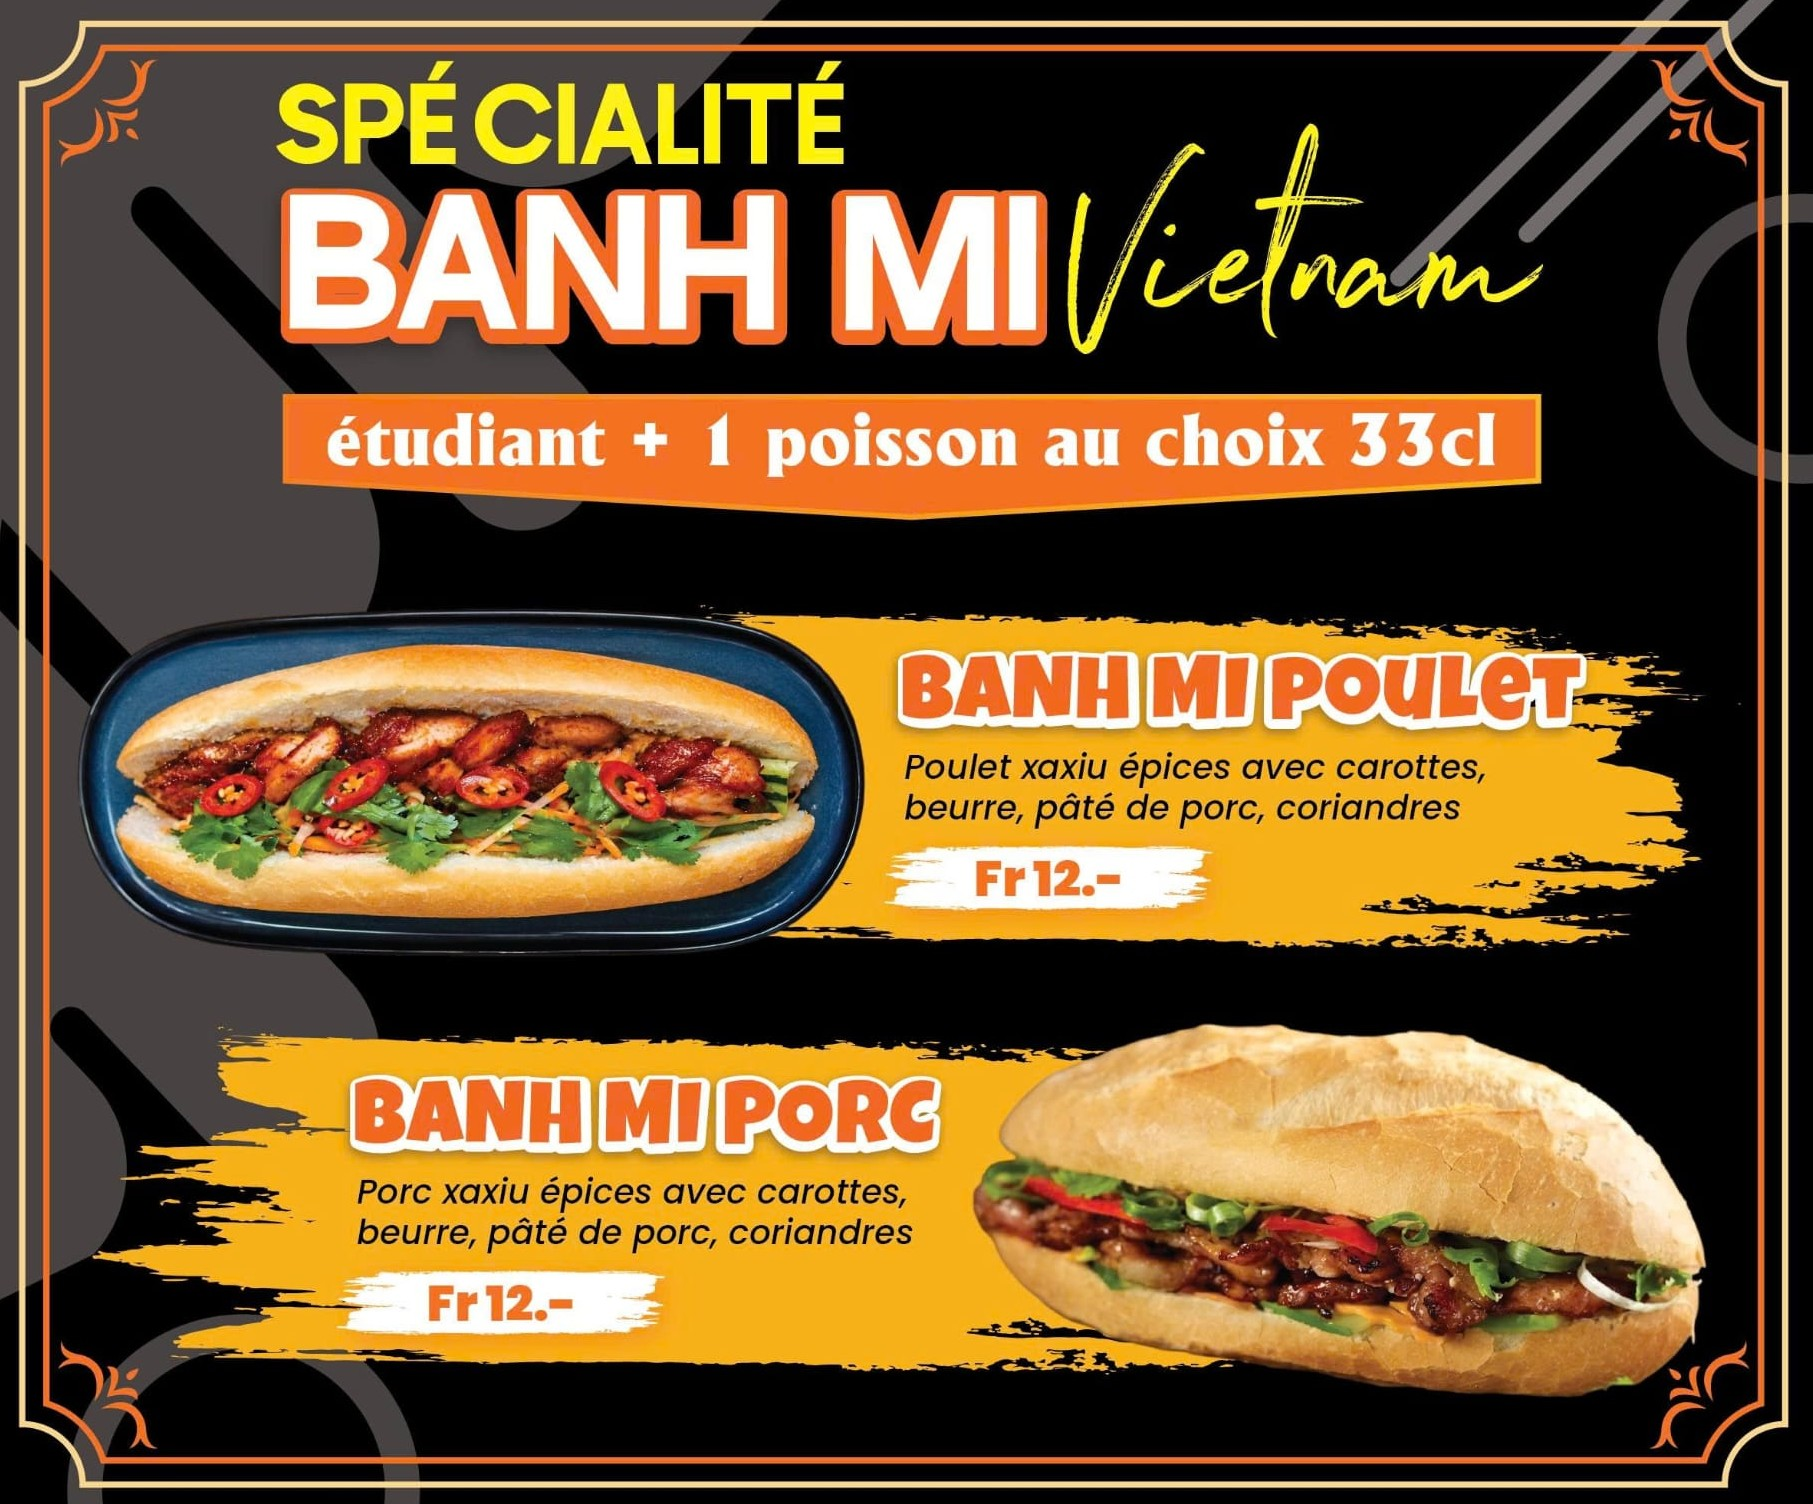
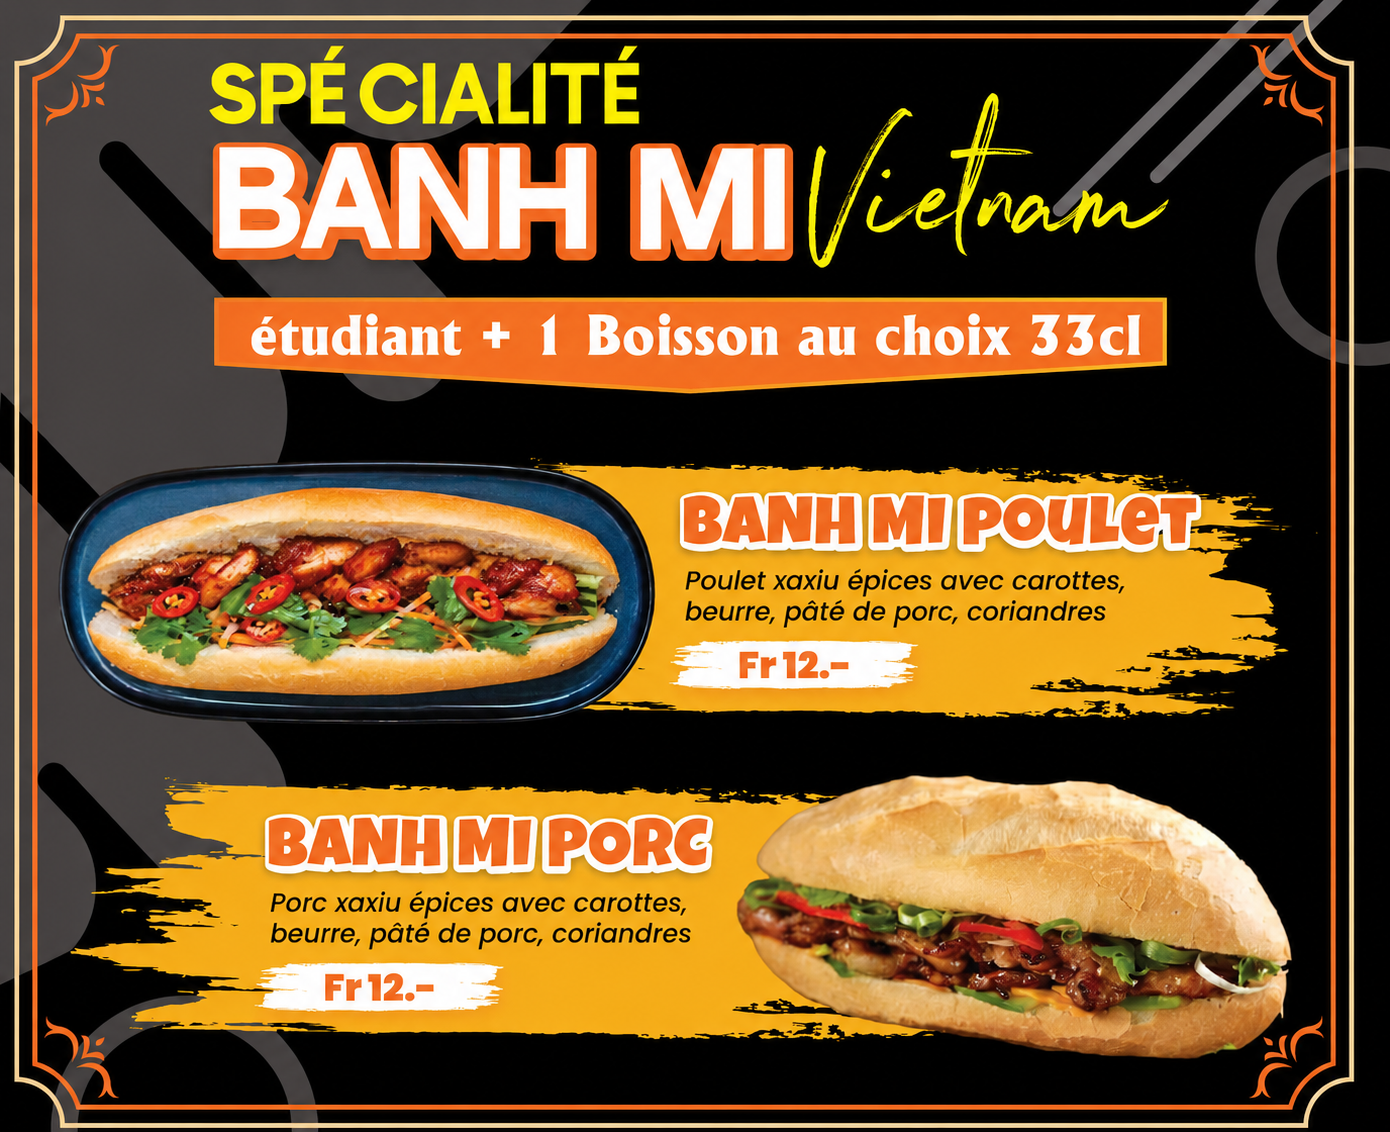
update

diff --git a/src/components/layout/Footer.tsx b/src/components/layout/Footer.tsx
@@ -7,7 +7,7 @@ function LotusLogoFooter() {
     <img
       src="/images/logo-banner.jpeg"
       alt="Le Lotus"
-      className="h-14 w-auto max-w-[220px]"
+      className="h-24 w-auto max-w-[320px]"
       style={{ objectFit: "contain" }}
     />
   );
@@ -34,24 +34,26 @@ export default function Footer() {
       <div className="max-w-7xl mx-auto px-4 md:px-8 lg:px-16 py-20">
         <div className="grid grid-cols-1 md:grid-cols-2 lg:grid-cols-4 gap-12 lg:gap-8">
           {/* Brand */}
-          <div className="lg:col-span-1">
-            <div className="mb-5">
+          <div className="lg:col-span-1 flex flex-col items-start">
+            <div className="mb-6">
               <LotusLogoFooter />
             </div>
             {/* Social */}
-            <div className="flex gap-3">
-              <a
-                href="https://www.facebook.com/share/1E2WbZfnWz/"
-                target="_blank"
-                rel="noopener noreferrer"
-                className="w-9 h-9 flex items-center justify-center border border-white/10
-                           text-white/50 hover:text-white hover:border-copper hover:text-copper
-                           transition-all duration-300"
-                aria-label="Facebook Le Lotus"
-              >
-                <Facebook size={15} />
-              </a>
-            </div>
+            <p className="text-xs tracking-[0.25em] uppercase text-copper mb-3 font-medium">
+              Suivez-nous
+            </p>
+            <a
+              href="https://www.facebook.com/share/1E2WbZfnWz/"
+              target="_blank"
+              rel="noopener noreferrer"
+              className="inline-flex items-center gap-3 px-4 py-2.5 border border-white/10
+                         text-white/60 hover:text-copper hover:border-copper
+                         transition-all duration-300"
+              aria-label="Facebook Le Lotus"
+            >
+              <Facebook size={16} />
+              <span className="text-sm tracking-wide">Facebook</span>
+            </a>
           </div>
 
           {/* Horaires */}

diff --git a/src/components/sections/Evenement.tsx b/src/components/sections/Evenement.tsx
@@ -155,16 +155,21 @@ export default function Evenement() {
             </a>
           </div>
 
-          {/* Decorative text */}
-          <motion.p
+          {/* Decorative logo */}
+          <motion.div
             initial={{ opacity: 0 }}
             animate={isInView ? { opacity: 1 } : {}}
             transition={{ duration: 1, delay: 1 }}
-            className="mt-16 font-serif italic text-white/20 text-5xl md:text-7xl
-                       select-none pointer-events-none overflow-hidden"
+            className="mt-16 flex justify-center select-none pointer-events-none"
           >
-            Le Lotus
-          </motion.p>
+            <span className="sr-only">Le Lotus</span>
+            <img
+              src={imgSrc("lelotus.png")}
+              alt="Le Lotus"
+              className="w-[240px] md:w-[360px] h-auto opacity-30"
+              style={{ filter: "drop-shadow(0 4px 24px rgba(0,0,0,0.45))" }}
+            />
+          </motion.div>
         </motion.div>
       </div>
     </section>

diff --git a/src/components/layout/PageLoader.tsx b/src/components/layout/PageLoader.tsx
@@ -89,7 +89,13 @@ export default function PageLoader() {
             animate={{ opacity: 1, y: 0 }}
             transition={{ duration: 0.7, delay: 0.85, ease: [0.16, 1, 0.3, 1] }}
           >
-            <span className="font-serif text-white text-3xl tracking-[0.4em]">LE LOTUS</span>
+            <span className="sr-only">Le Lotus</span>
+            <img
+              src="/images/lelotus.png"
+              alt="Le Lotus"
+              className="w-[200px] md:w-[260px] h-auto"
+              style={{ filter: "drop-shadow(0 4px 24px rgba(0,0,0,0.45))" }}
+            />
             <div className="flex items-center gap-3">
               <div className="w-8 h-px bg-copper/50" />
               <span className="text-white/45 text-[10px] tracking-[0.3em] uppercase font-sans">